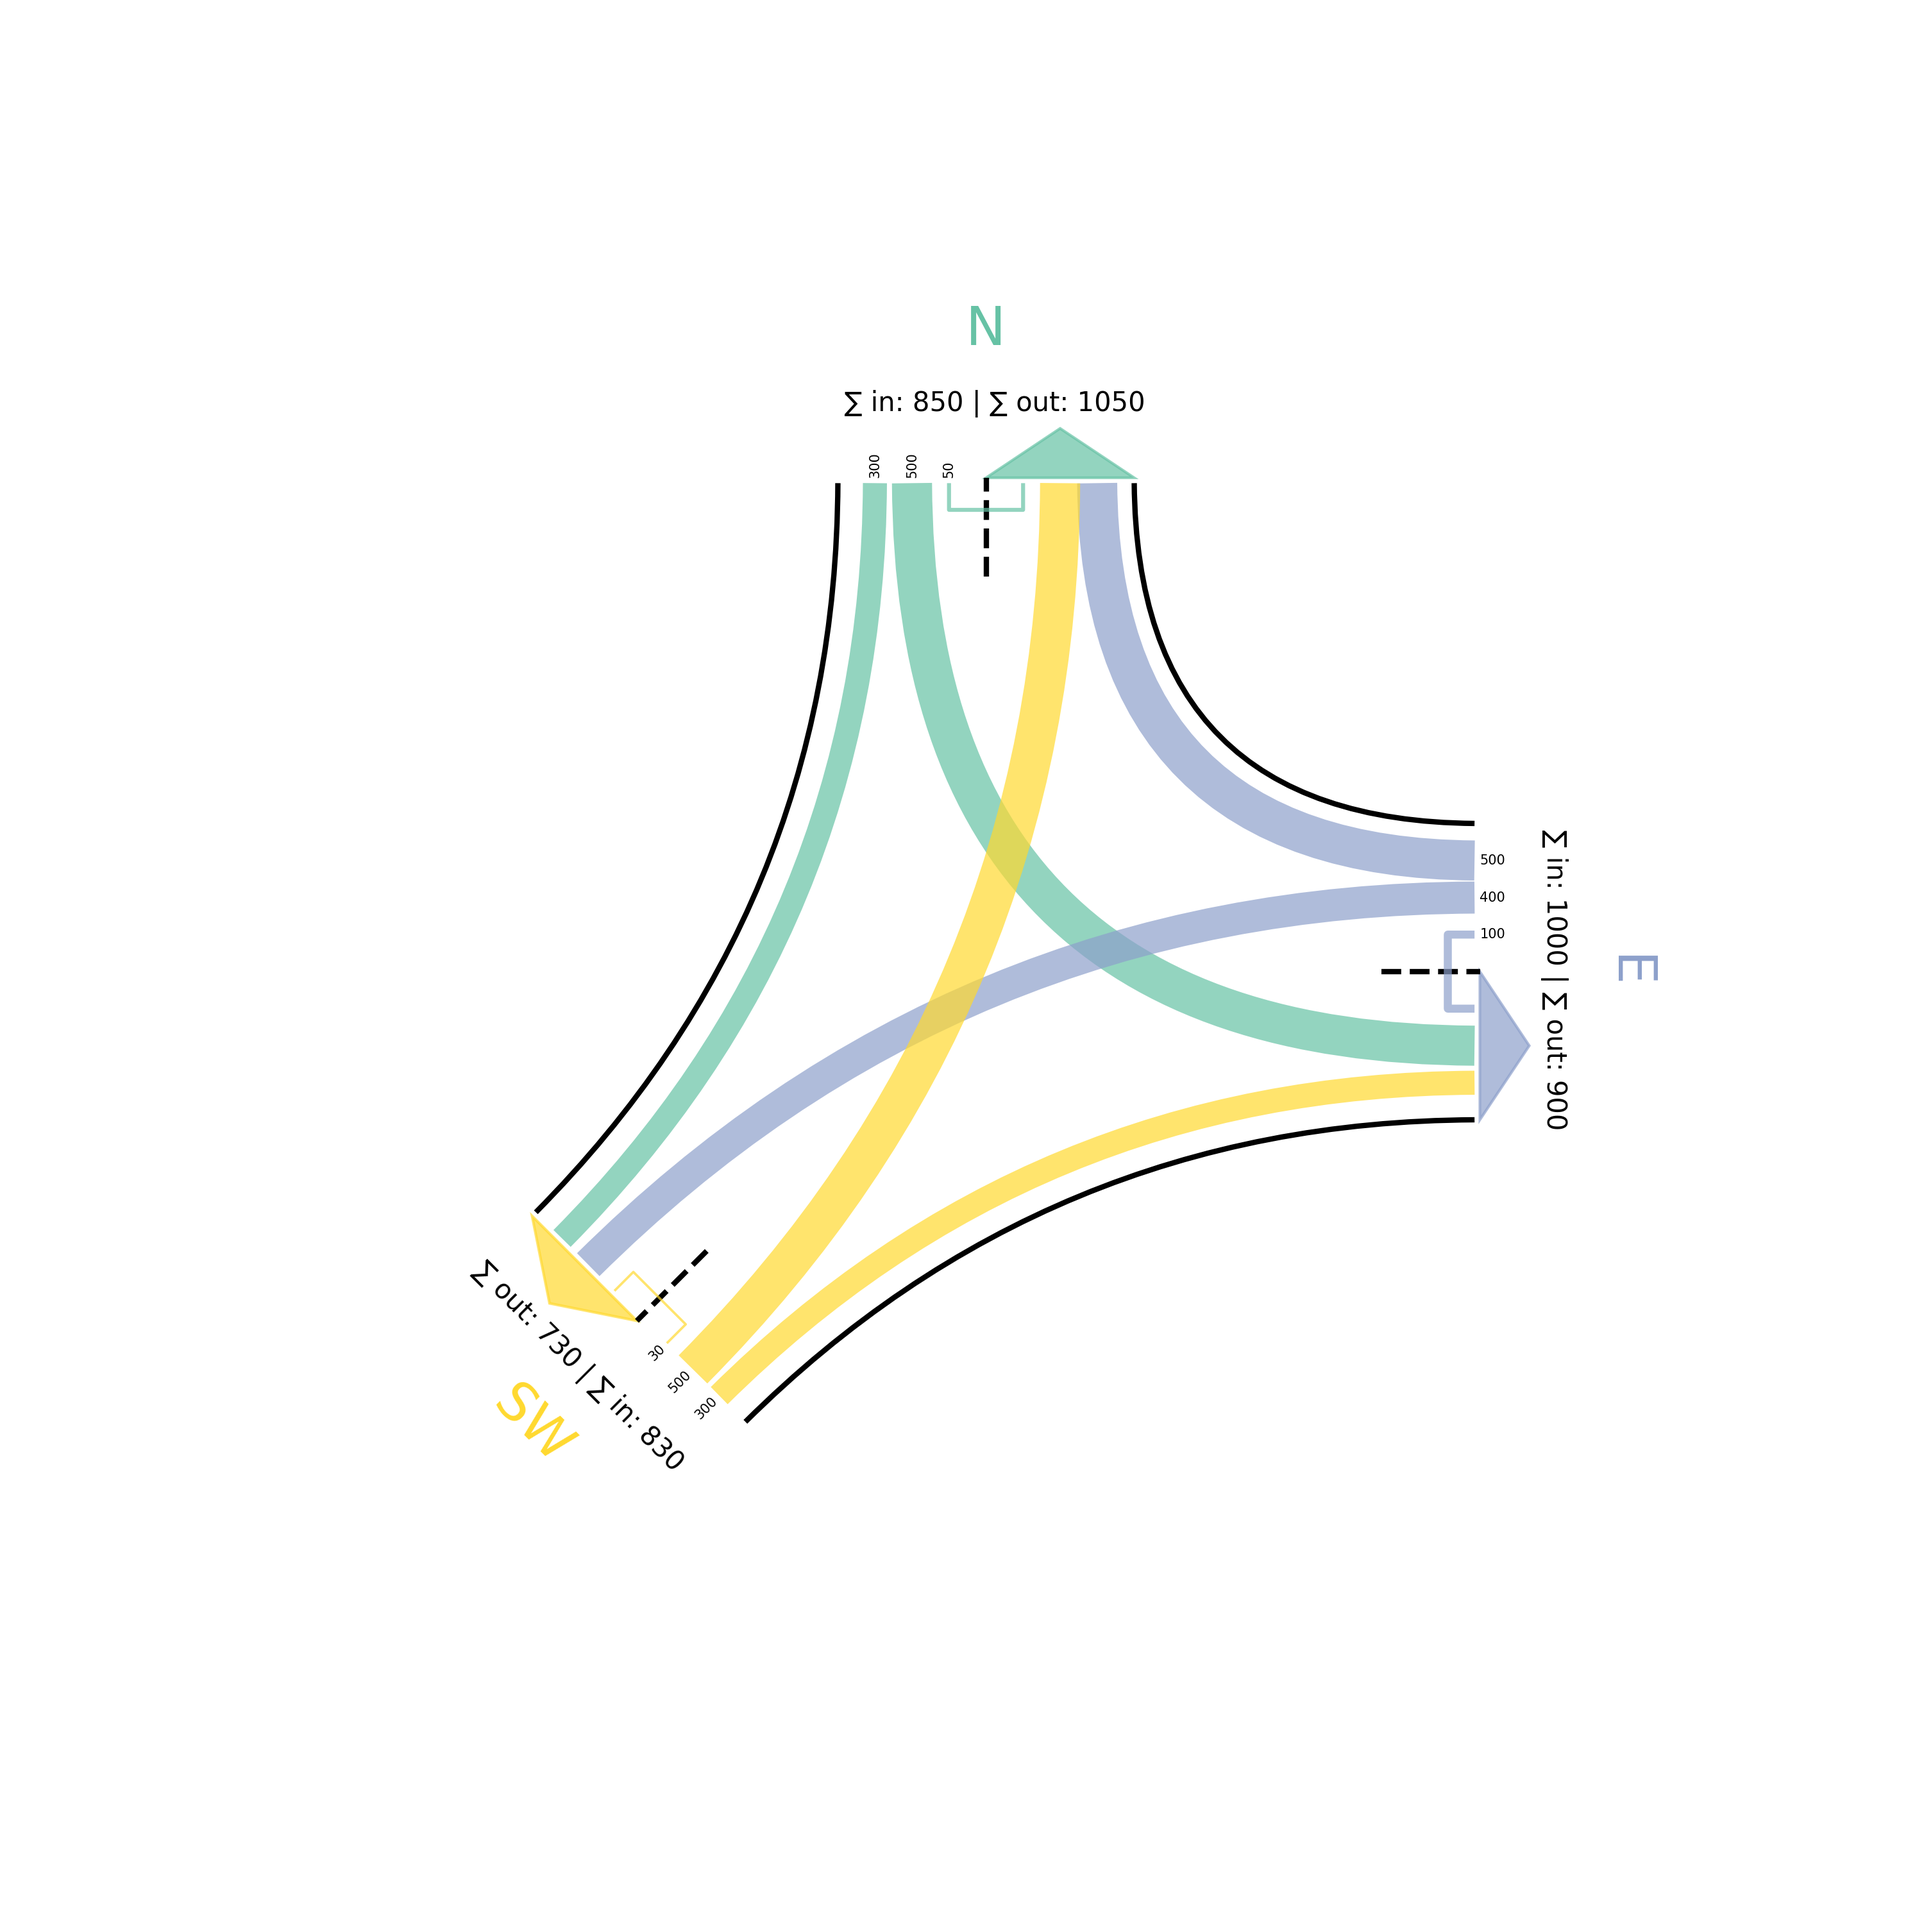
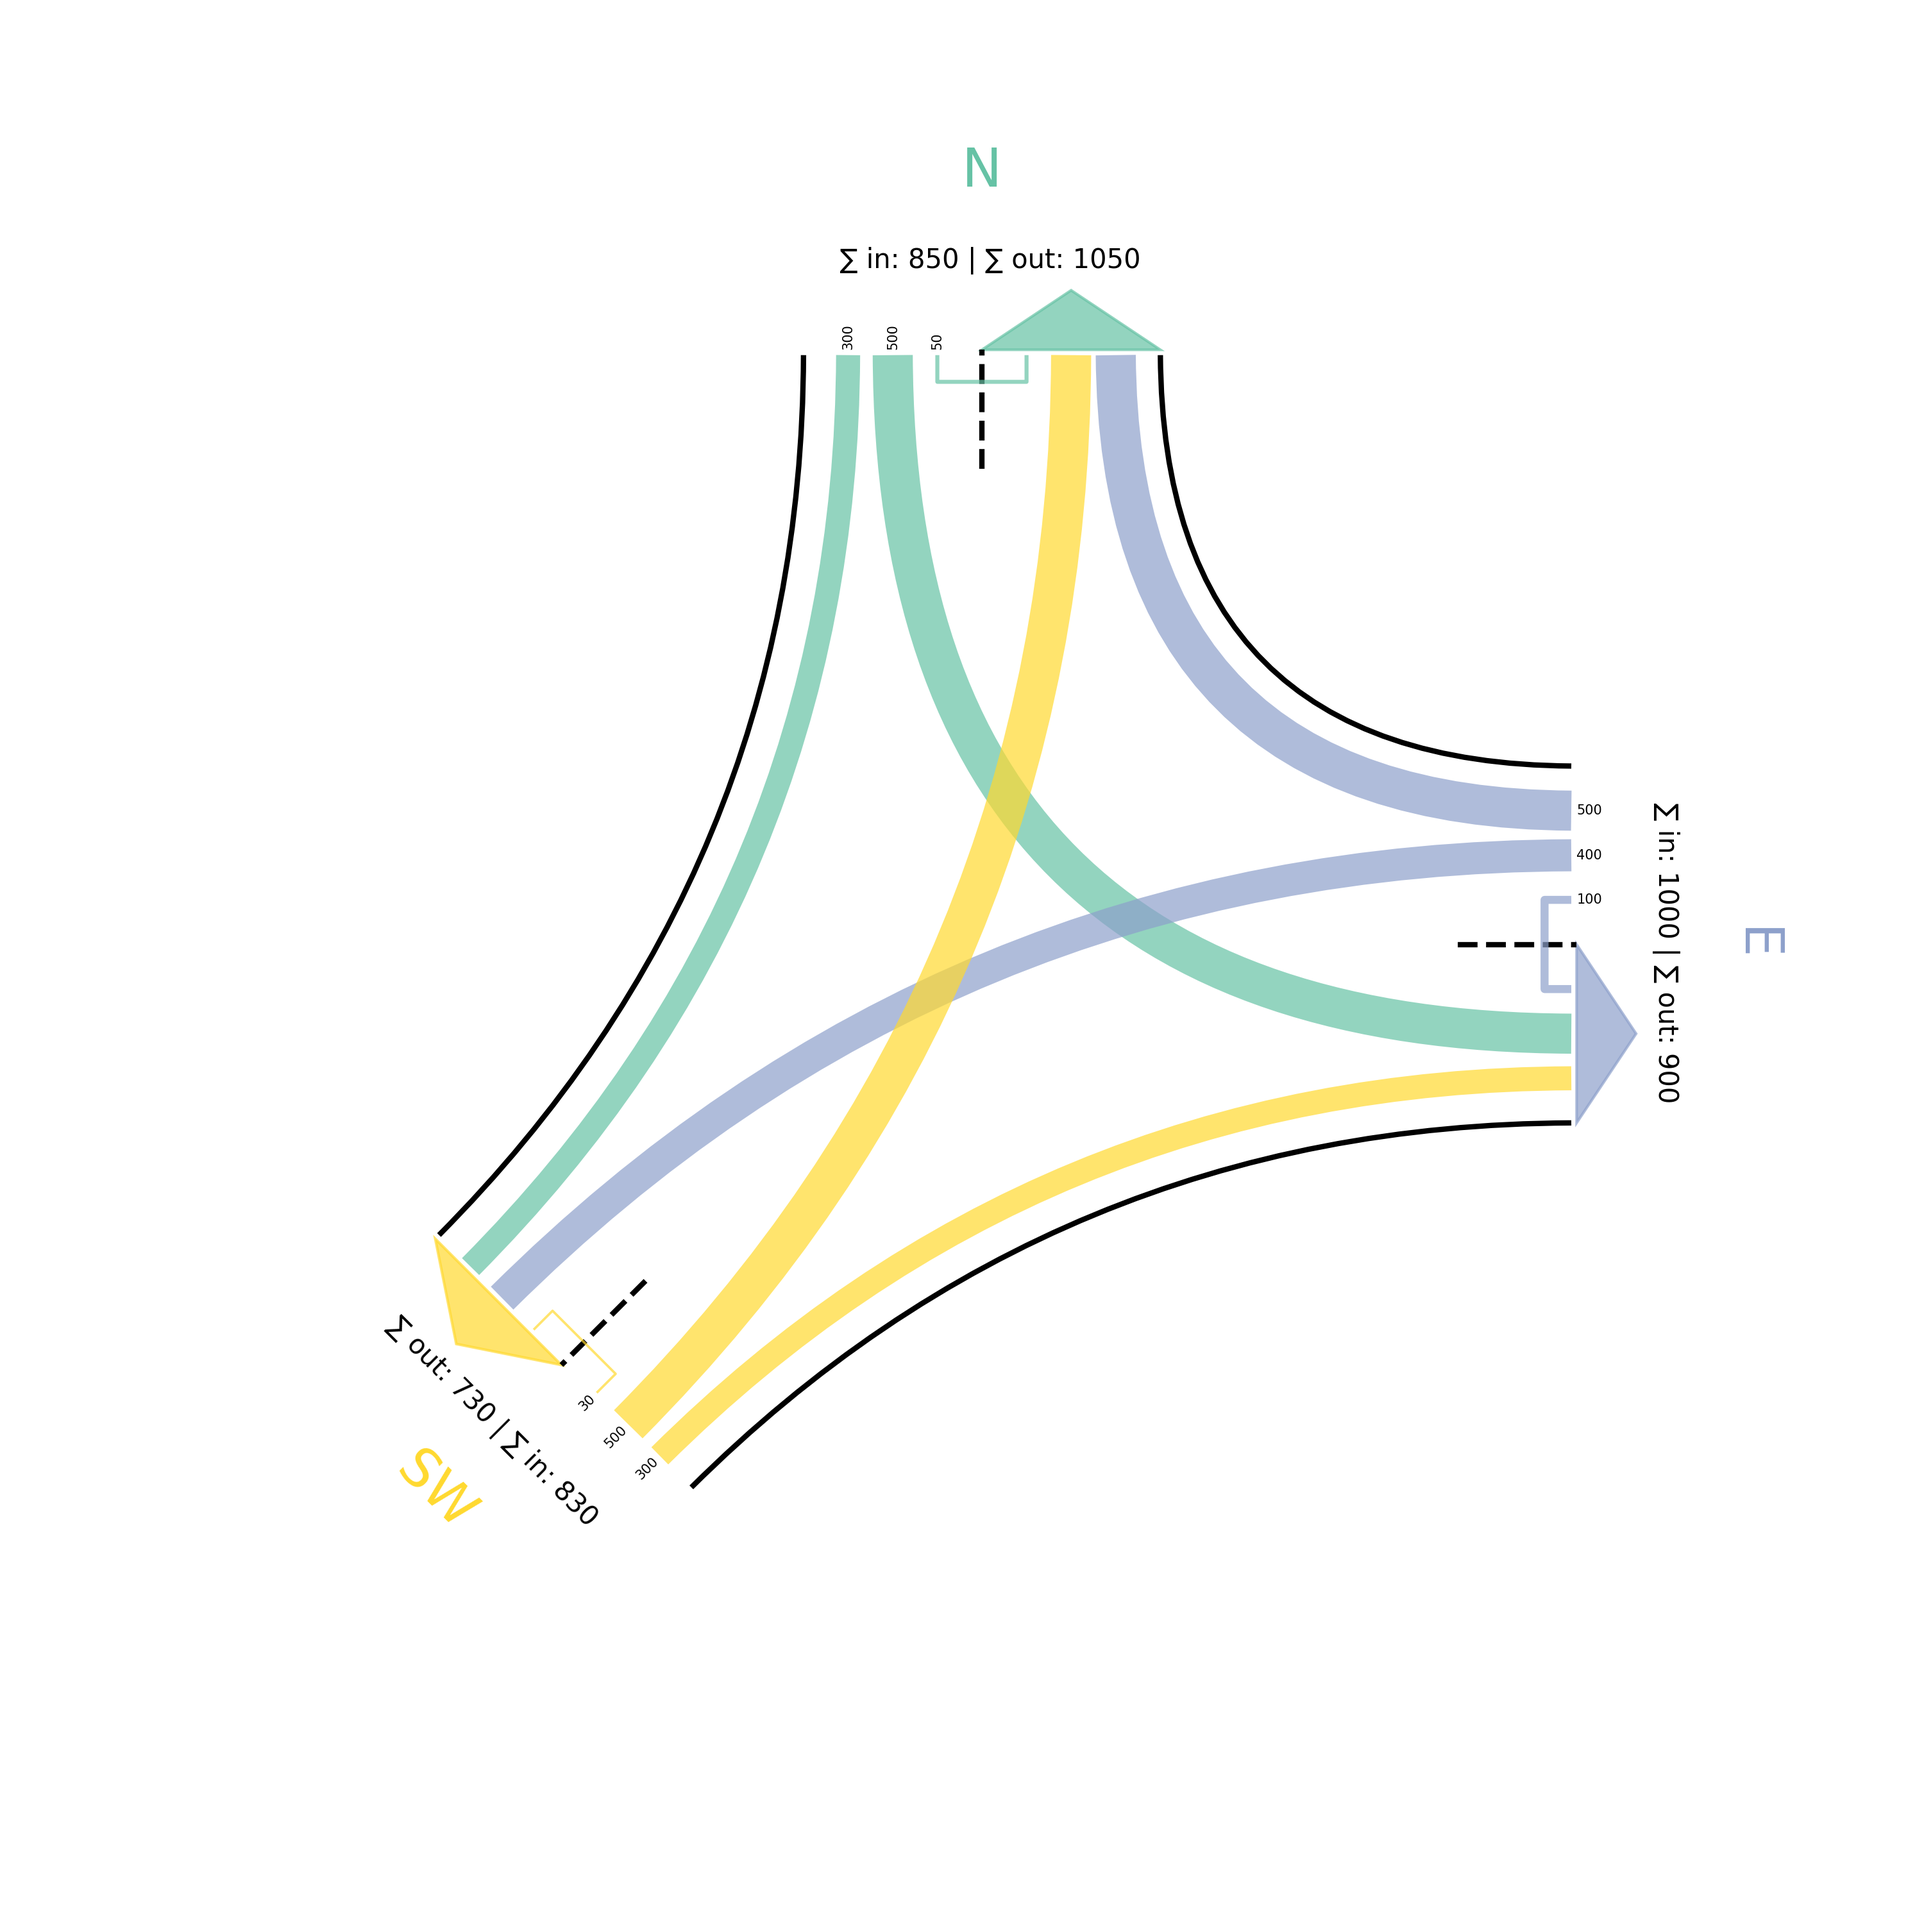
Mutli Example

diff --git a/examples/multi_example.py b/examples/multi_example.py
@@ -1,0 +1,173 @@
+import os
+import random
+import matplotlib.pyplot as plt
+from IntersectionTrafficFlow import IntersectionTrafficFlow
+
+fig, axs = plt.subplots(nrows=2, ncols=2, figsize=(20,20))
+plt.tight_layout()
+
+# First Intersection
+custom_1 = {'High Street': 0, 'Kings Road': 240, 'Park Avenue': 60, 'Main Street': 195, 'Green Lane': 300}
+itf_1 = IntersectionTrafficFlow(
+    radius = 10,
+    custom_directions = custom_1,
+    left_hand_traffic = False,
+    cmap_name  = 'tab10',
+    cmap_edges_name = None,
+    nodes_alpha = 0.7,
+    edges_alpha = 0.7,
+    max_edge_width = 15,
+    width_road = 3,
+    crossbar = False,
+    width_crossbar = 20,
+    exit_arrow = True,
+    centerline = True,
+    roadside = True,
+    text_offset = 3,
+    direction_text = True,
+    font_size_direction = 20,
+    sum_movement_text = True,
+    font_size_sum_movement = 10,
+    individual_movement_text = True,
+    font_size_individual_movement = 5
+)
+
+directions_1 = list(custom_1.keys())
+
+max_val = 1000
+min_val = 0
+od_matrix = []
+for origin in directions_1:
+    for destination in directions_1:
+        if origin == destination:
+            od_matrix.append((origin, destination, random.randint(min_val, max_val/10)))
+        else:
+            od_matrix.append((origin, destination, random.randint(min_val, max_val)))
+
+itf_1.plot(axs.flat[0], od_matrix)
+
+# Second Intersection
+itf_2 = IntersectionTrafficFlow(
+    radius = 10,
+    custom_directions = None,
+    left_hand_traffic = True,
+    cmap_name  = 'black',
+    cmap_edges_name = 'viridis',
+    nodes_alpha = 1,
+    edges_alpha = 0.8,
+    max_edge_width = 10,
+    width_road = 3,
+    crossbar = False,
+    width_crossbar = 20,
+    exit_arrow = True,
+    centerline = False,
+    roadside = False,
+    text_offset = 3,
+    direction_text = True,
+    font_size_direction = 20,
+    sum_movement_text = True,
+    font_size_sum_movement = 10,
+    individual_movement_text = False,
+    font_size_individual_movement = 5
+)
+
+directions_2 = ['N', 'NE', 'E', 'S', 'SW', 'NW']
+
+max_val = 1000
+min_val = 0
+od_matrix = []
+for origin in directions_2:
+    for destination in directions_2:
+        if origin == destination:
+            od_matrix.append((origin, destination, random.randint(min_val, max_val/10)))
+        else:
+            od_matrix.append((origin, destination, random.randint(min_val, max_val)))
+
+itf_2.plot(axs.flat[1], od_matrix)
+
+
+# Third Intersection
+itf_3 = IntersectionTrafficFlow(
+    radius = 10,
+    custom_directions = None,
+    left_hand_traffic = True,
+    cmap_name  = 'Set2',
+    cmap_edges_name = None,
+    nodes_alpha = 0.7,
+    edges_alpha = 0.6,
+    max_edge_width = 15,
+    width_road = 3,
+    crossbar = True,
+    width_crossbar = 20,
+    exit_arrow = False,
+    centerline = True,
+    roadside = False,
+    text_offset = 3,
+    direction_text = True,
+    font_size_direction = 20,
+    sum_movement_text = False,
+    font_size_sum_movement = 10,
+    individual_movement_text = False,
+    font_size_individual_movement = 5
+)
+
+directions_3 = ['N', 'NE', 'E', 'SE', 'S', 'SW', 'W', 'NW']
+
+max_val = 1000
+min_val = 0
+od_matrix = []
+for origin in directions_3:
+    for destination in directions_3:
+        if origin == destination:
+            od_matrix.append((origin, destination, random.randint(min_val, max_val/10)))
+        else:
+            od_matrix.append((origin, destination, random.randint(min_val, max_val)))
+
+itf_3.plot(axs.flat[2], od_matrix)
+
+
+# Fourth Intersection
+custom_4 = {'Sunset Boulevard': 330, 'River Road': 75, 'Orchard Lane': 150, 'Cedar Avenue': 210, 'Maple Street': 285}
+itf_4 = IntersectionTrafficFlow(
+    radius = 10,
+    custom_directions = custom_4,
+    left_hand_traffic = False,
+    cmap_name  = 'black',
+    cmap_edges_name = 'RdYlGn',
+    nodes_alpha = 0.7,
+    edges_alpha = 0.7,
+    max_edge_width = 15,
+    width_road = 3,
+    crossbar = False,
+    width_crossbar = 20,
+    exit_arrow = True,
+    centerline = True,
+    roadside = True,
+    text_offset = 3,
+    direction_text = True,
+    font_size_direction = 20,
+    sum_movement_text = True,
+    font_size_sum_movement = 10,
+    individual_movement_text = True,
+    font_size_individual_movement = 5
+)
+
+directions_4 = list(custom_4.keys())
+
+max_val = 1000
+min_val = -1000
+od_matrix = []
+for origin in directions_4:
+    for destination in directions_4:
+        if origin == destination:
+            od_matrix.append((origin, destination, random.randint(min_val/10, max_val/10)))
+        else:
+            od_matrix.append((origin, destination, random.randint(min_val, max_val)))
+
+itf_4.plot(axs.flat[3], od_matrix)
+
+# Save plot
+script_dir = os.path.dirname(__file__)
+output_path = os.path.join(script_dir, 'multi_example.png')
+fig.savefig(output_path, dpi=300)
+plt.show()

diff --git a/IntersectionTrafficFlow/core.py b/IntersectionTrafficFlow/core.py
@@ -464,10 +464,10 @@ if __name__ == '__main__':
     
     fig, axs = plt.subplots(nrows=1, ncols=2, figsize=(12, 15))
     
-    directions = ['N', 'S', 'W']
+    '''directions = ['N', 'S', 'W']'''
     '''directions = ['N', 'E', 'S', 'W']'''
     '''directions = ['N', 'NE', 'E', 'S', 'SW', 'NW']'''
-    '''directions = ['N', 'NE', 'E', 'SE', 'S', 'SW', 'W', 'NW']'''
+    directions = ['N', 'NE', 'E', 'SE', 'S', 'SW', 'W', 'NW']
     '''directions = list(custom_directions.keys())'''
     for ax in axs.flat:
         max_val = 1000

diff --git a/examples/basic_usage.py b/examples/basic_usage.py
@@ -20,6 +20,7 @@ od_matrix = [
 
 # Setup plot
 fig, ax = plt.subplots(figsize=(10,10))
+plt.tight_layout()
 itf.plot(ax, od_matrix)
 
 # Save plot

diff --git a/ReadMe.md b/ReadMe.md
@@ -8,6 +8,8 @@
 - Ability to define custom directions and associate specific traffic metrics with those directions.
 - Visual representation of traffic using Matplotlib, allowing easy integration with other data visualization tools in Python.
 
+![Multi_Example](examples/multi_example.png "Multi Example Intersection")
+
 ## Installation
 
 ### From GitHub
